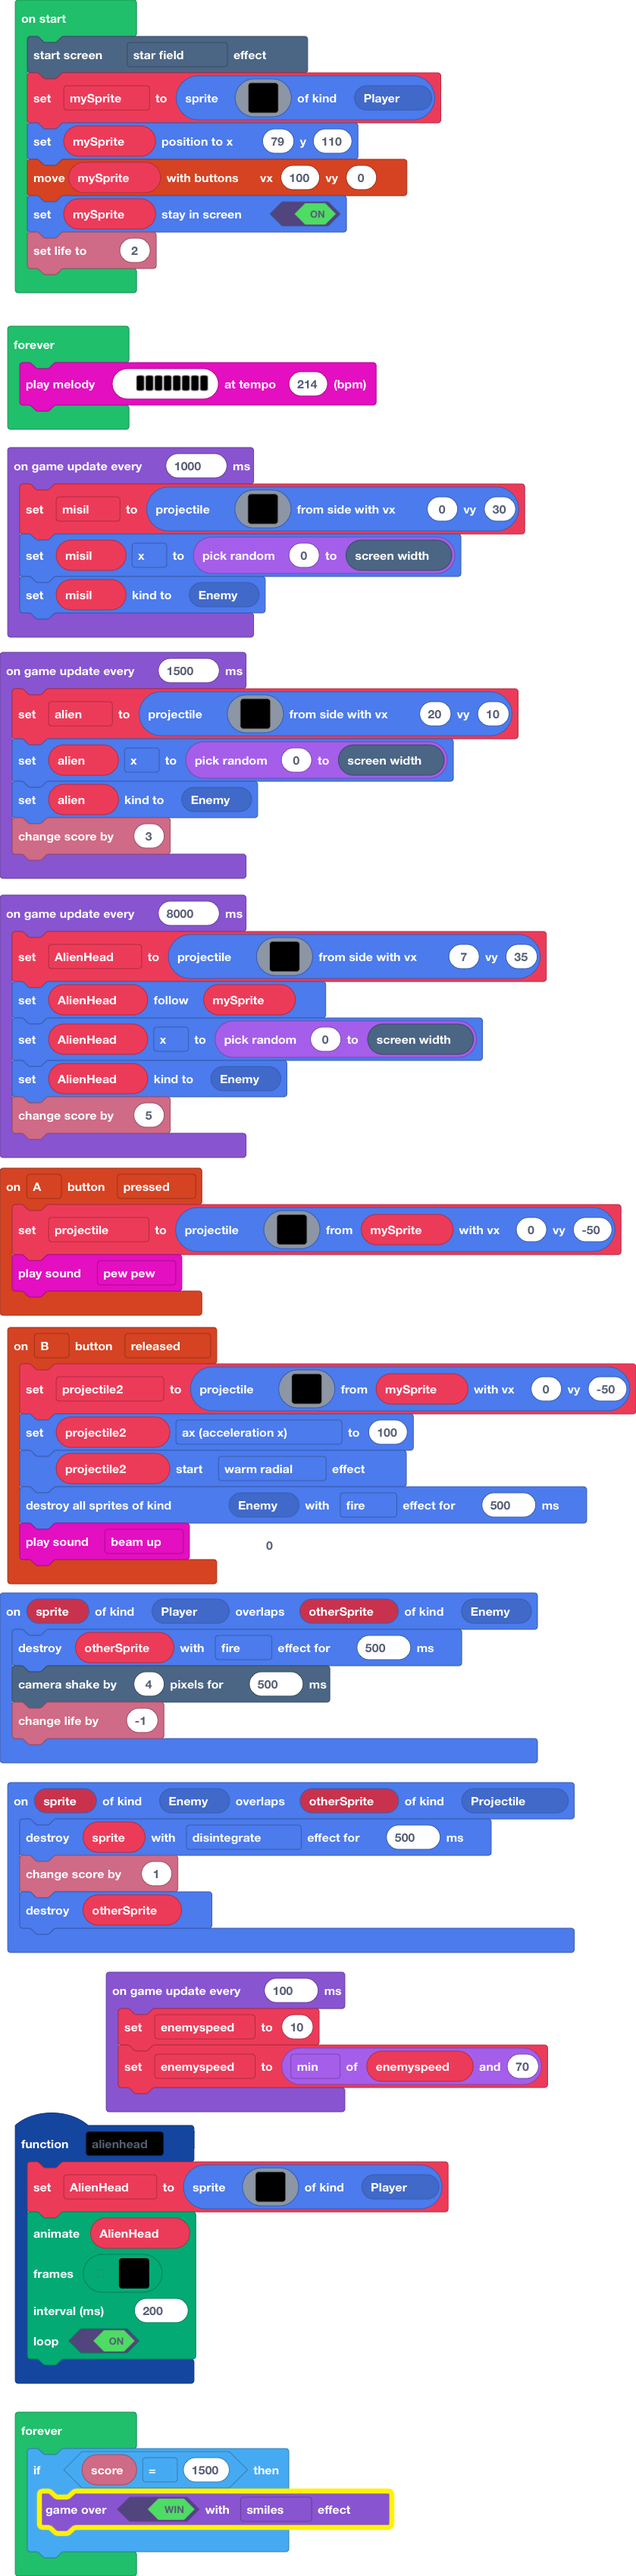
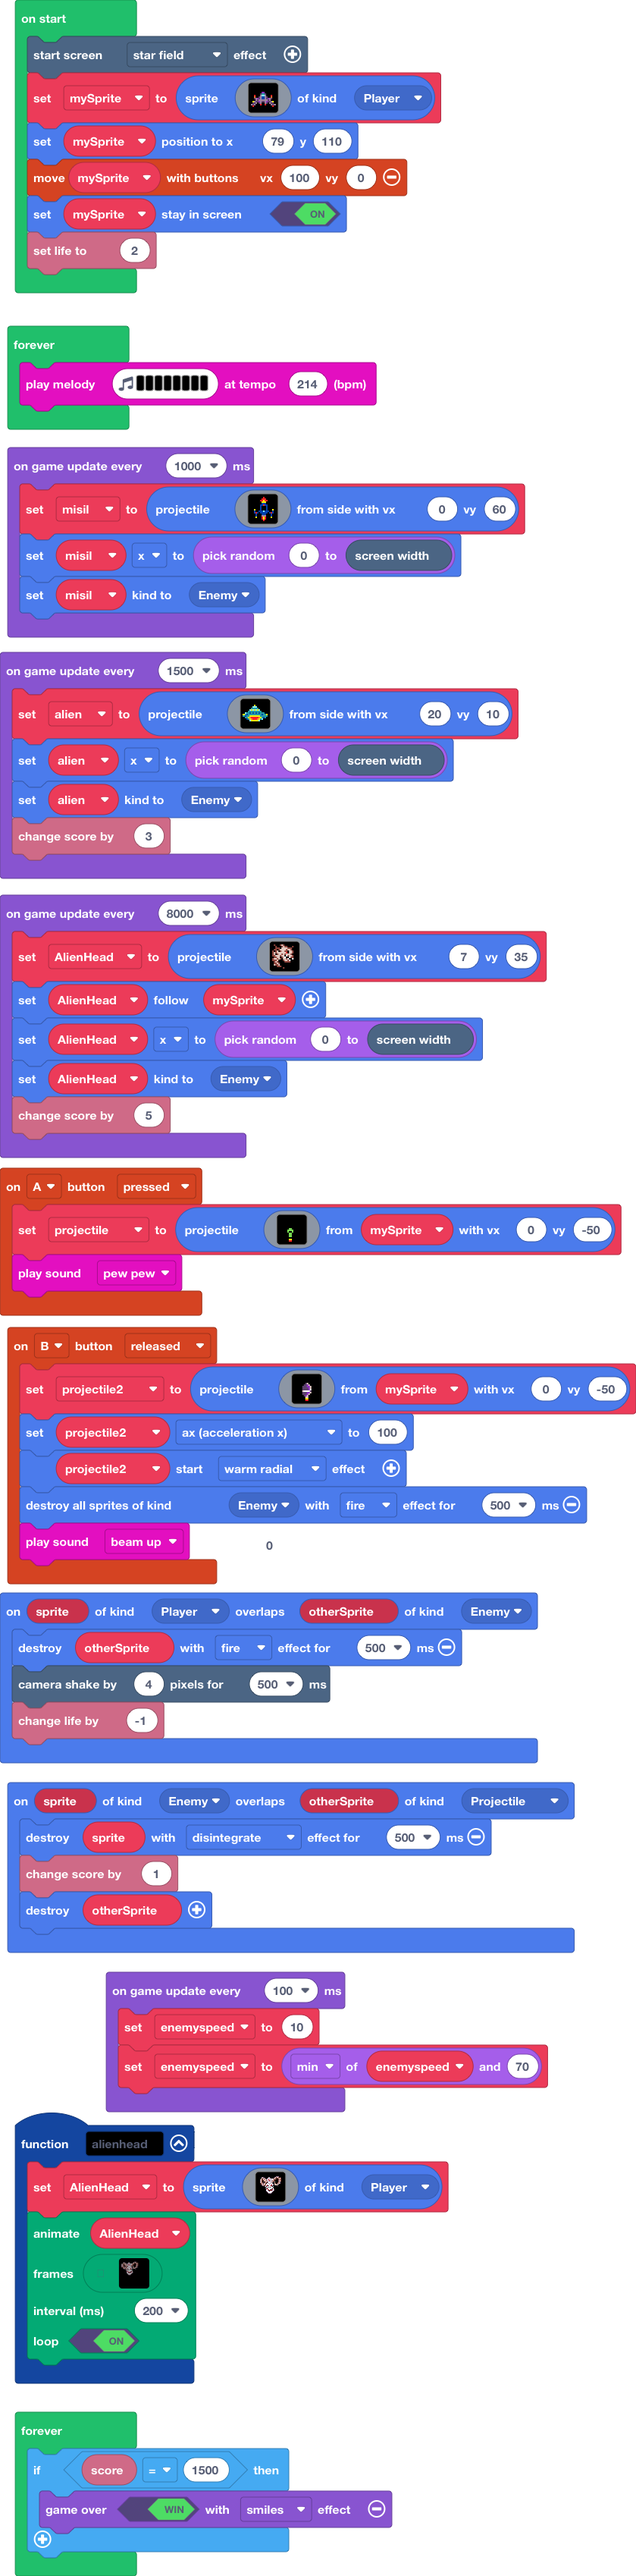
Update main.blocks, main.ts

diff --git a/main.ts b/main.ts
@@ -42,7 +42,7 @@ controller.moveSprite(mySprite, 100, 0)
 mySprite.setStayInScreen(true)
 info.setLife(2)
 game.onUpdateInterval(1000, function () {
-    misil = sprites.createProjectileFromSide(assets.image`misile`, 0, 30)
+    misil = sprites.createProjectileFromSide(assets.image`misile`, 0, 60)
     misil.x = randint(0, scene.screenWidth())
     misil.setKind(SpriteKind.Enemy)
 })
